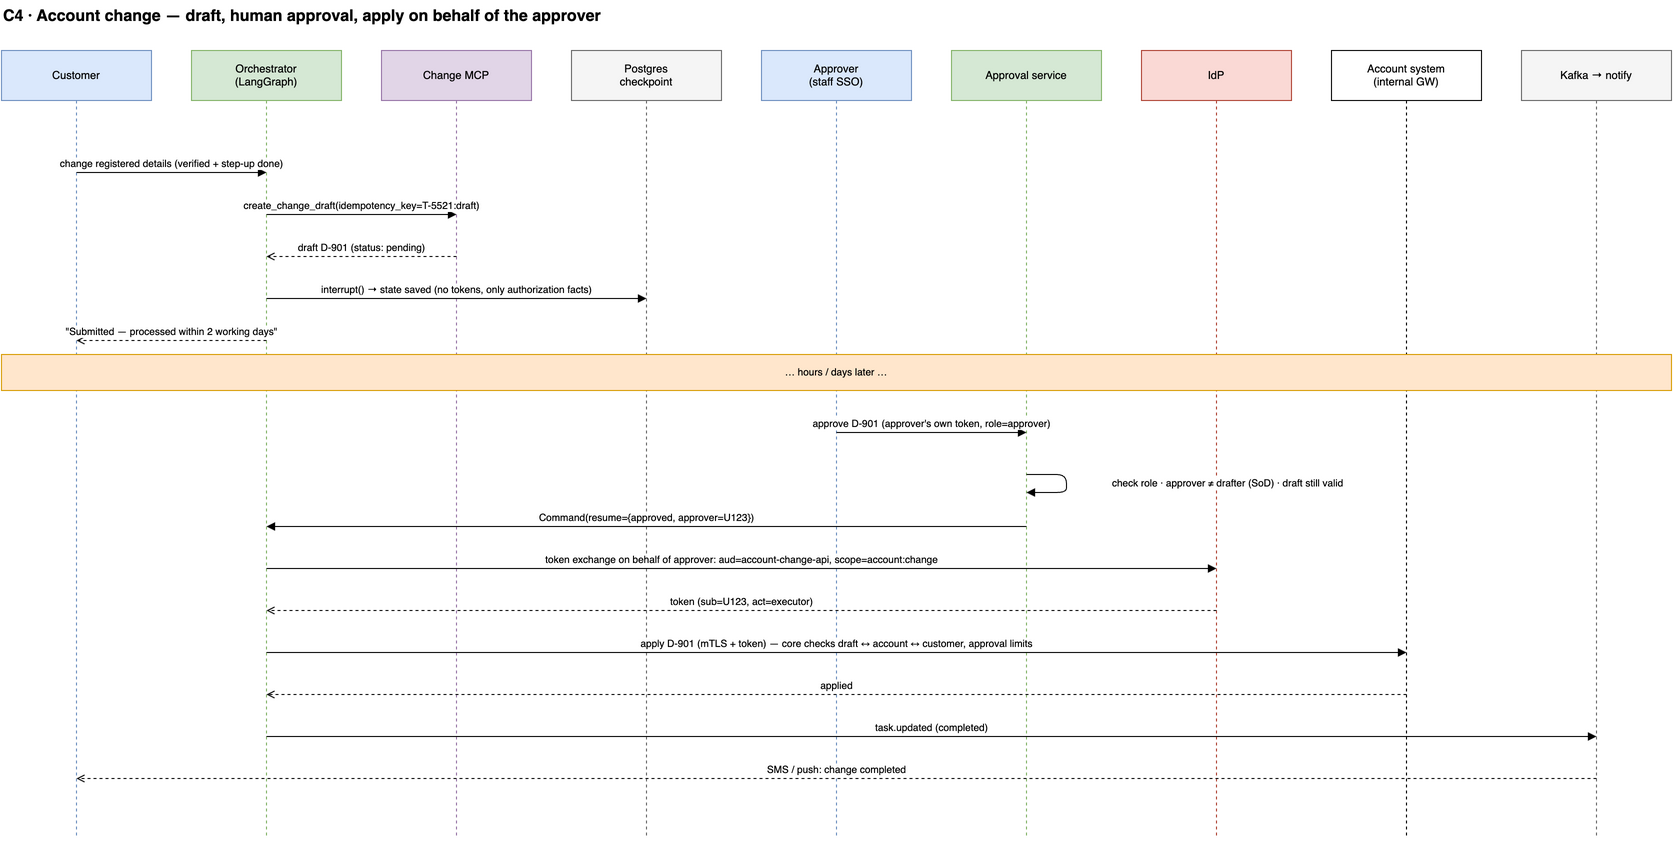
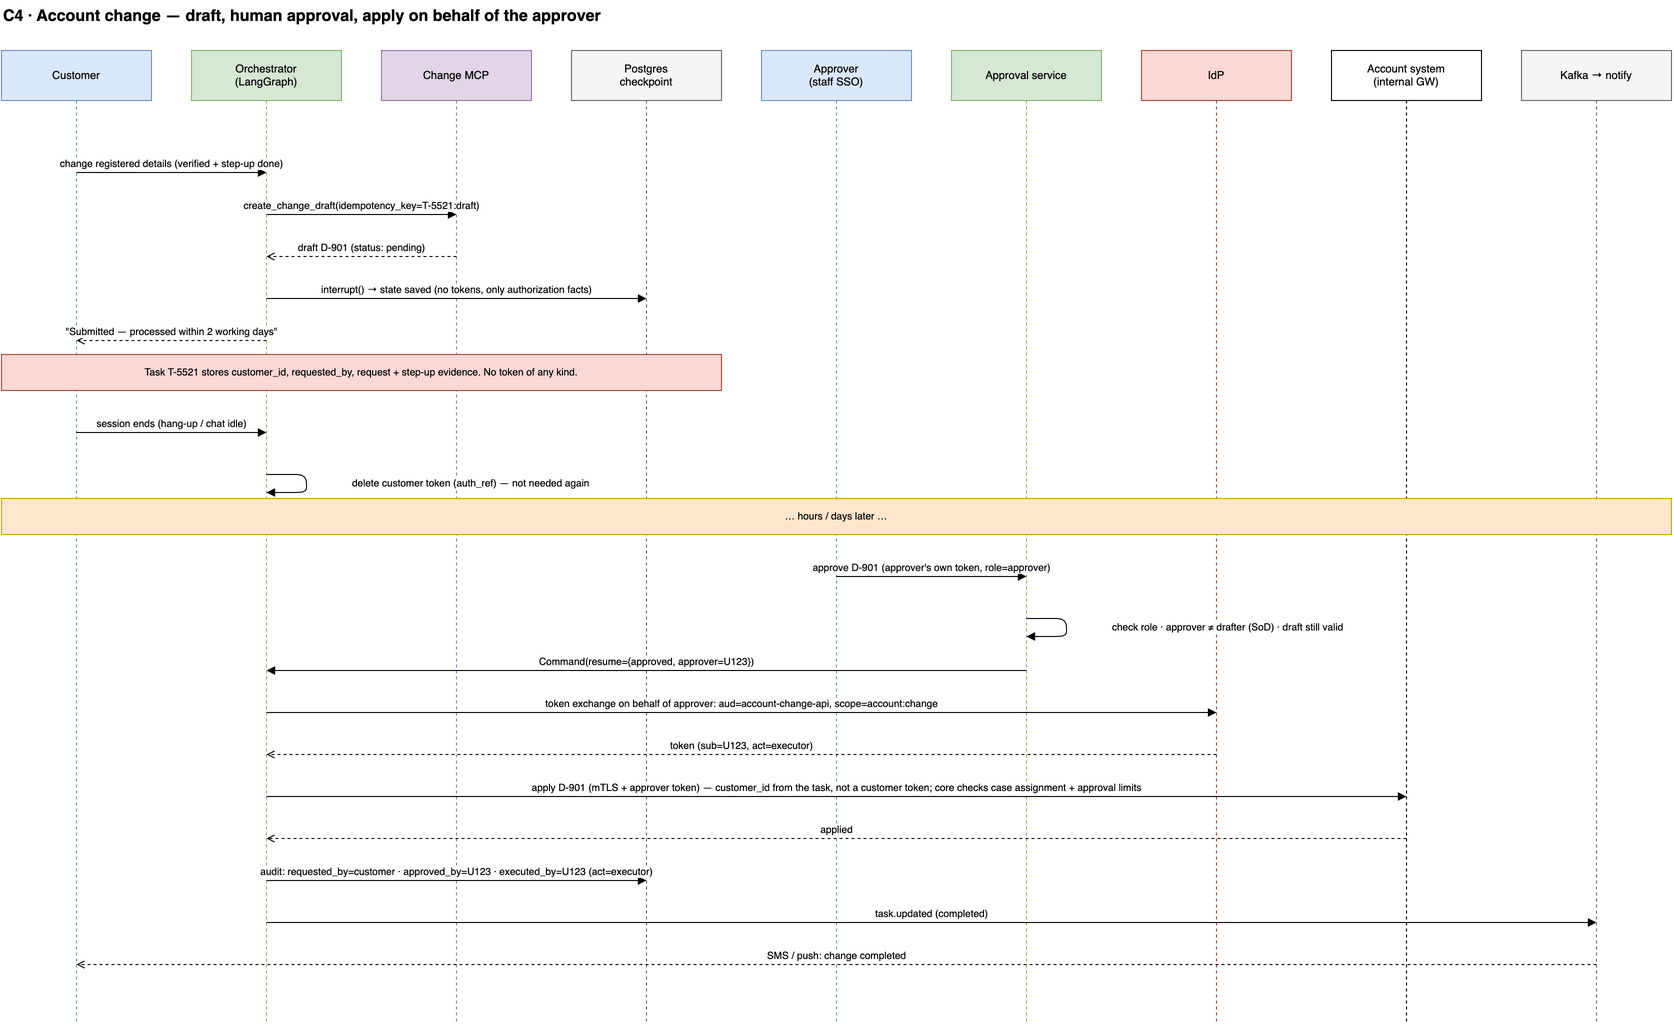
Clarify token ownership in the C4 approval flow

diff --git a/tools/gen_sequences.py b/tools/gen_sequences.py
@@ -213,14 +213,18 @@ s.msg("or", "ch", "create_change_draft(idempotency_key=T-5521:draft)")
 s.msg("ch", "or", "draft D-901 (status: pending)", ret=True)
 s.msg("or", "pg", "interrupt() → state saved (no tokens, only authorization facts)")
 s.msg("or", "c", "\"Submitted — processed within 2 working days\"", ret=True)
+s.note_over("c", "pg", "Task T-5521 stores customer_id, requested_by, request + step-up evidence. No token of any kind.", zone="sec")
+s.msg("c", "or", "session ends (hang-up / chat idle)")
+s.msg("or", "or", "delete customer token (auth_ref) — not needed again")
 s.note_over("c", "kf", "… hours / days later …")
 s.msg("ap", "as", "approve D-901 (approver's own token, role=approver)")
 s.msg("as", "as", "check role · approver ≠ drafter (SoD) · draft still valid")
 s.msg("as", "or", "Command(resume={approved, approver=U123})")
 s.msg("or", "idp", "token exchange on behalf of approver: aud=account-change-api, scope=account:change")
 s.msg("idp", "or", "token (sub=U123, act=executor)", ret=True)
-s.msg("or", "core", "apply D-901 (mTLS + token) — core checks draft ↔ account ↔ customer, approval limits")
+s.msg("or", "core", "apply D-901 (mTLS + approver token) — customer_id from the task, not a customer token; core checks case assignment + approval limits")
 s.msg("core", "or", "applied", ret=True)
+s.msg("or", "pg", "audit: requested_by=customer · approved_by=U123 · executed_by=U123 (act=executor)")
 s.msg("or", "kf", "task.updated (completed)")
 s.msg("kf", "c", "SMS / push: change completed", ret=True)
 save(s, "C4-approval-account-change.drawio")
